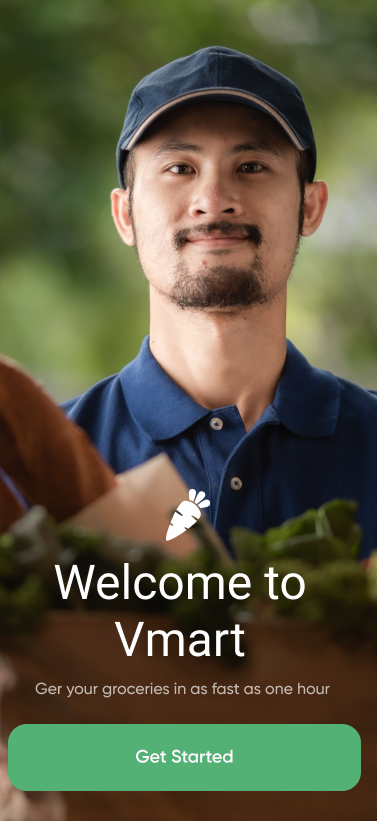
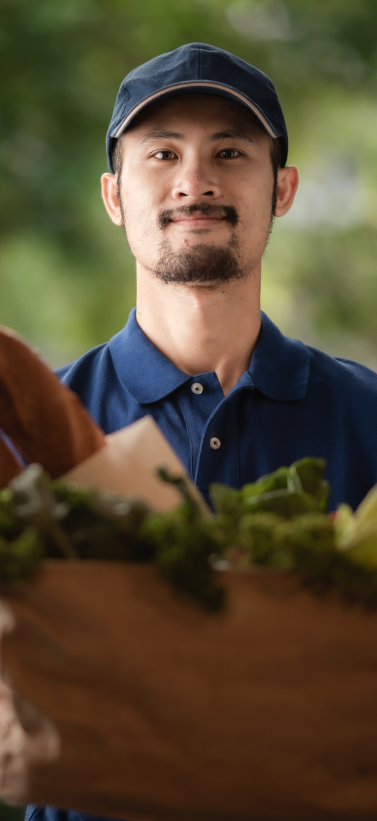
Vmart

diff --git a/Vmart/login/lib/Getstarted_page.dart b/Vmart/login/lib/Getstarted_page.dart
@@ -1,0 +1,56 @@
+import 'package:flutter/material.dart';
+import 'home_page.dart';
+// import 'splash_page.dart';
+import 'dart:async';
+
+import 'login_page.dart';
+
+class GetstartedPage extends StatefulWidget {
+  static String tag = 'Getstartedpage';
+  @override
+  _GetstartedPageState createState() => new _GetstartedPageState();
+}
+
+class _GetstartedPageState extends State<GetstartedPage> {
+  @override
+  Widget build(BuildContext context) {
+    final loginButton = Padding(
+      
+      padding: EdgeInsets.symmetric(vertical: 16.0),
+      child: RaisedButton(
+        shape: RoundedRectangleBorder(
+          borderRadius: BorderRadius.circular(24),
+        ),
+        onPressed: () {
+          Navigator.of(context).pushNamed(LoginPage.tag);
+        },
+        padding: EdgeInsets.all(12),
+        color: Color.fromARGB(255, 10, 160, 22),
+        child: Text('Get Started',
+            style: TextStyle(color: Color.fromARGB(255, 255, 255, 255))),
+      ),
+    );
+    return Scaffold(
+      body: Container(
+        width: MediaQuery.of(context).size.width,
+        height: MediaQuery.of(context).size.height,
+        child: Stack(
+          alignment: Alignment.center,
+          children: [
+            Container(
+              decoration: BoxDecoration(
+                image: DecorationImage(
+                    image: AssetImage(
+                      "assets/GetStarted.png",
+                    ),
+                    fit: BoxFit.fill),
+              ),
+              // child: Container(),
+            ),
+            Positioned(bottom: 10, child: loginButton)
+          ],
+        ),
+      ),
+    );
+  }
+}

diff --git a/Vmart/login/lib/register_page.dart b/Vmart/login/lib/register_page.dart
@@ -87,7 +87,7 @@ class _RegisterPageState extends State<RegisterPage> {
             icon: Icon(Icons.remove_red_eye),
           )),
     );
-    final loginButton = Padding(
+    final registerButton = Padding(
       padding: EdgeInsets.symmetric(vertical: 16.0),
       child: RaisedButton(
         shape: RoundedRectangleBorder(
@@ -156,7 +156,7 @@ class _RegisterPageState extends State<RegisterPage> {
                 SizedBox(height: 8.0),
                 UlangiPassword,
                 SizedBox(height: 24.0),
-                loginButton,
+                registerButton,
                 // forgotLabel,
                 daftar
               ],

diff --git a/Vmart/login/lib/main.dart b/Vmart/login/lib/main.dart
@@ -1,5 +1,6 @@
 import 'package:flutter/material.dart';
 import 'package:login/register_page.dart';
+import 'Getstarted_page.dart';
 import 'login_page.dart';
 import 'home_page.dart';
 import 'register_page.dart';
@@ -9,6 +10,7 @@ void main() => runApp(MyApp());
 
 class MyApp extends StatelessWidget {
   final routes = <String, WidgetBuilder>{
+    GetstartedPage.tag: (context) => GetstartedPage(),
     Splash.tag: (context) => Splash(),
     LoginPage.tag: (context) => LoginPage(),
     HomePage.tag: (context) => HomePage(),

diff --git a/Vmart/login/lib/splash_page.dart b/Vmart/login/lib/splash_page.dart
@@ -1,4 +1,5 @@
 import 'package:flutter/material.dart';
+import 'Getstarted_page.dart';
 import 'home_page.dart';
 // import 'splash_page.dart';
 import 'dart:async';
@@ -23,7 +24,7 @@ class _SplashState extends State<Splash> {
     return Timer(duration, () {
       Navigator.of(context).pushReplacement(
         MaterialPageRoute(builder: (_) {
-          return LoginPage();
+          return GetstartedPage();
         }),
       );
     });
